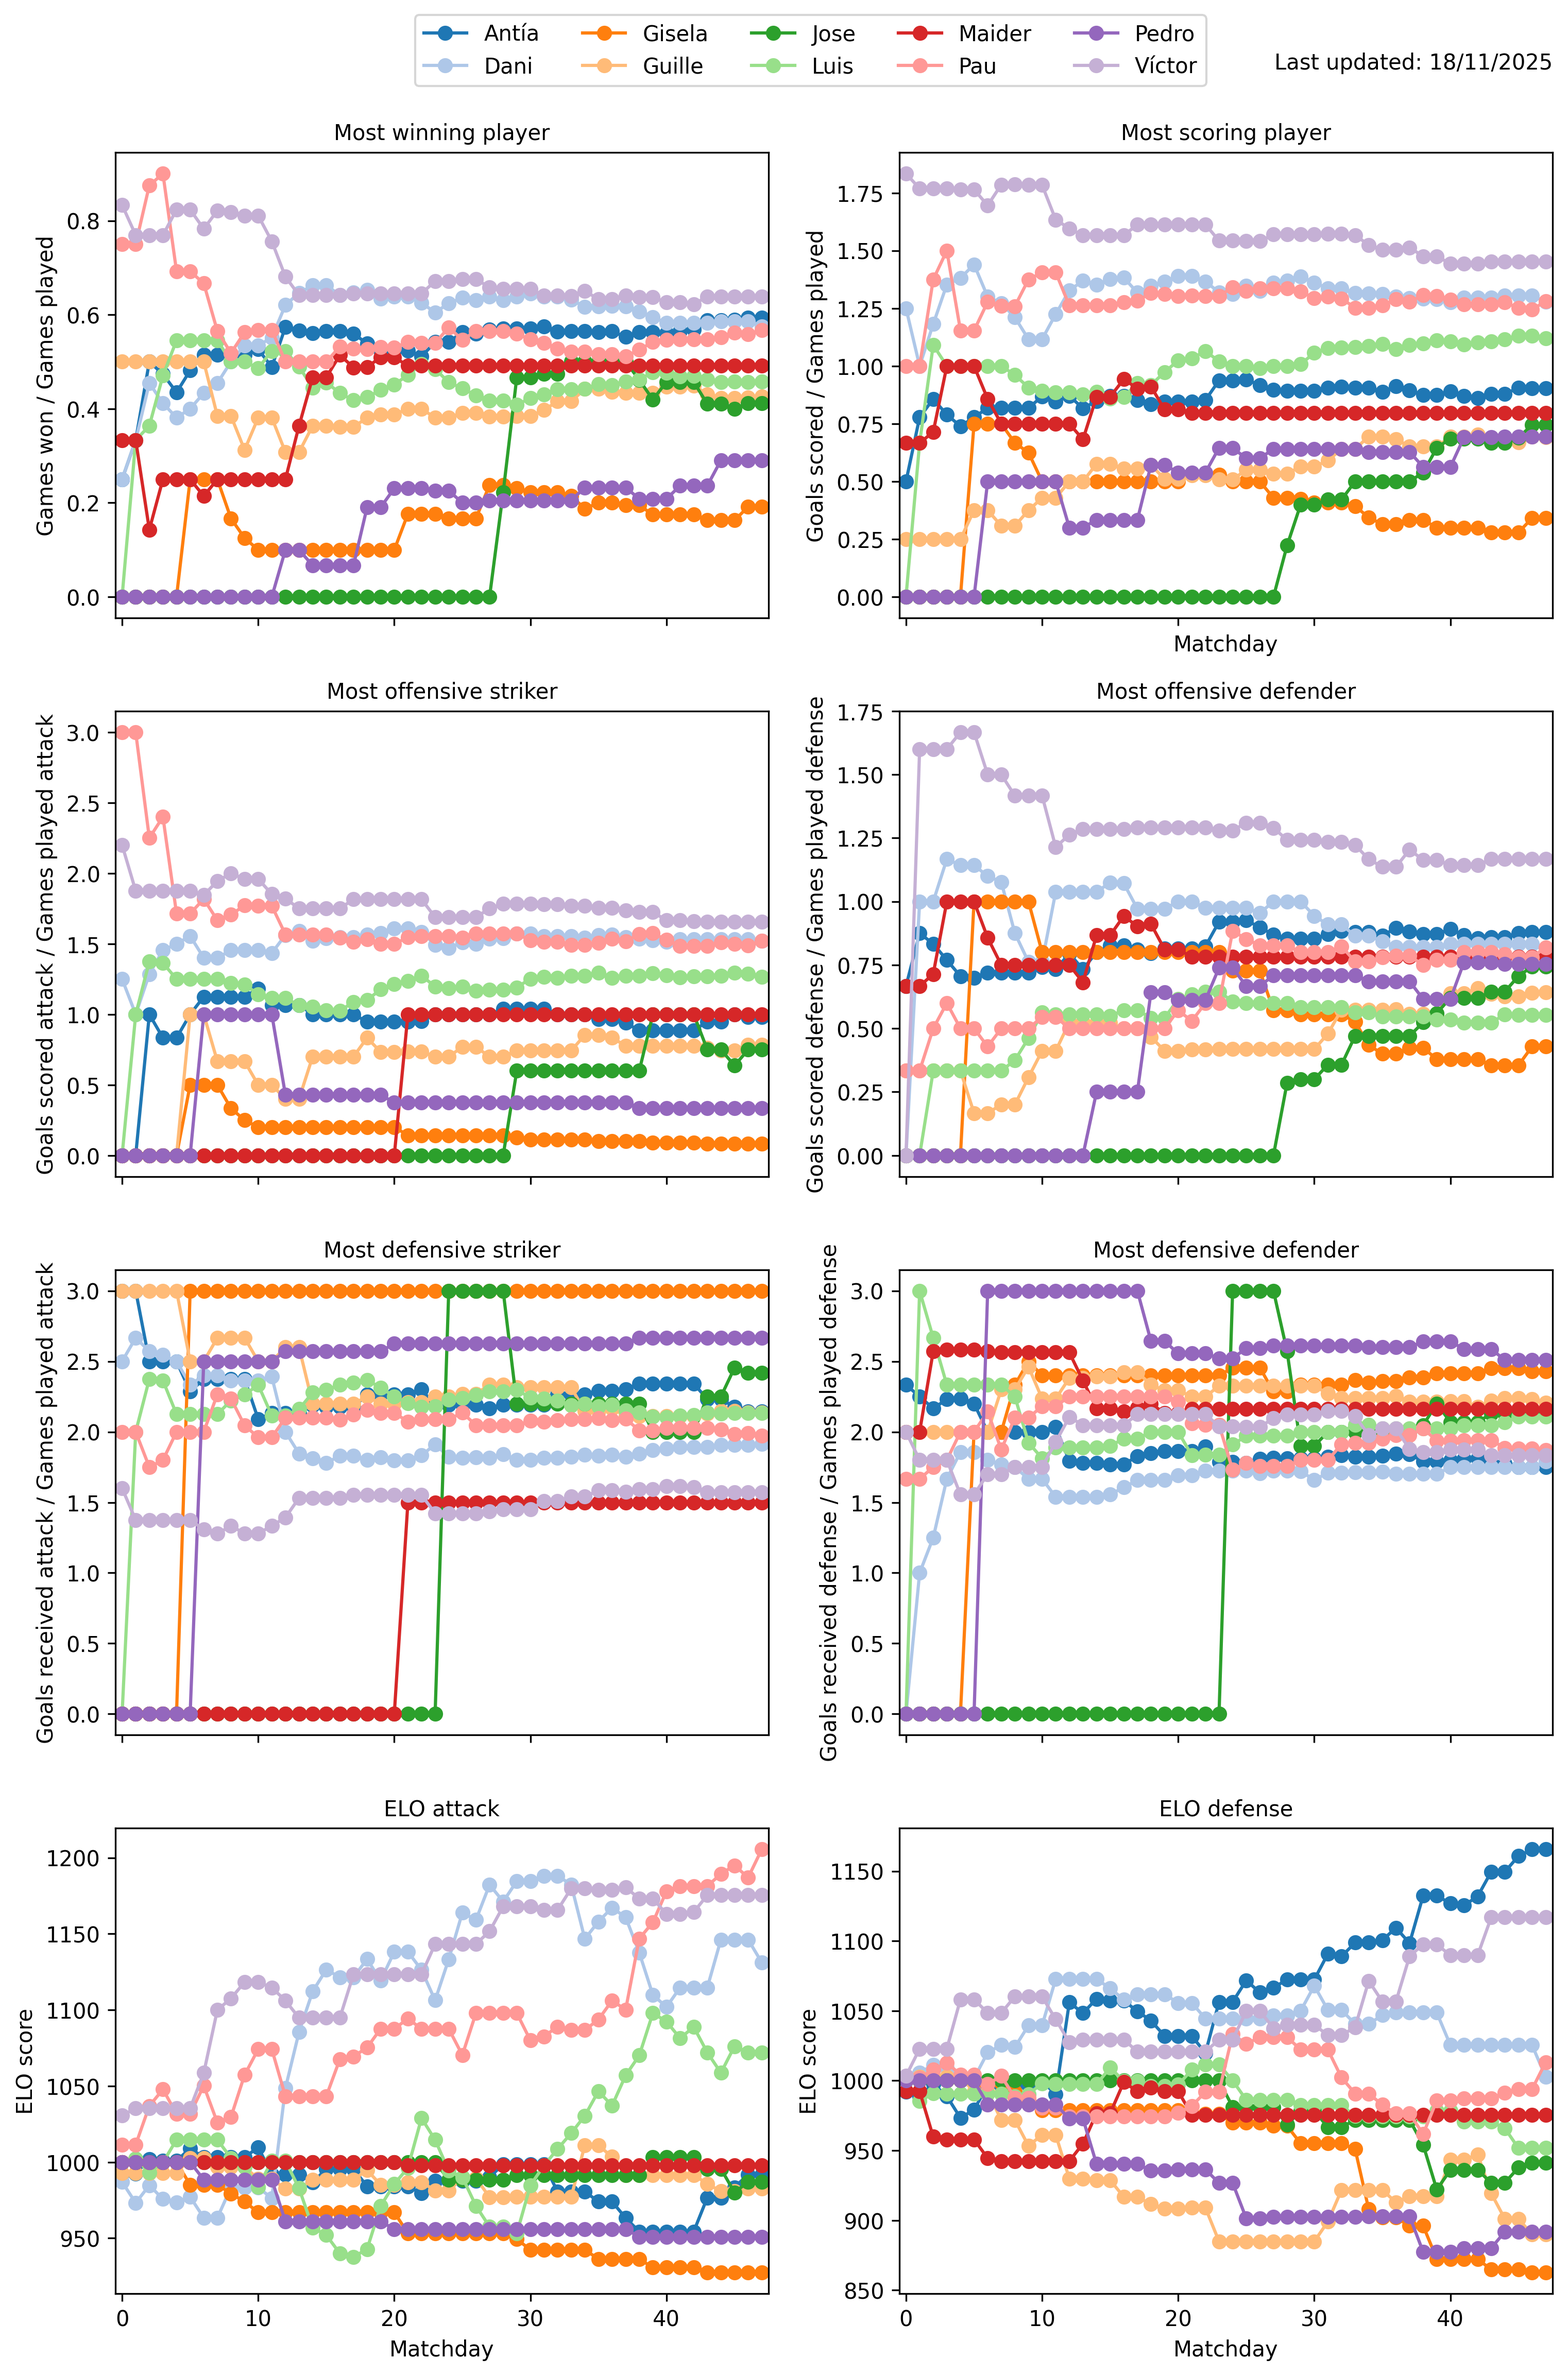
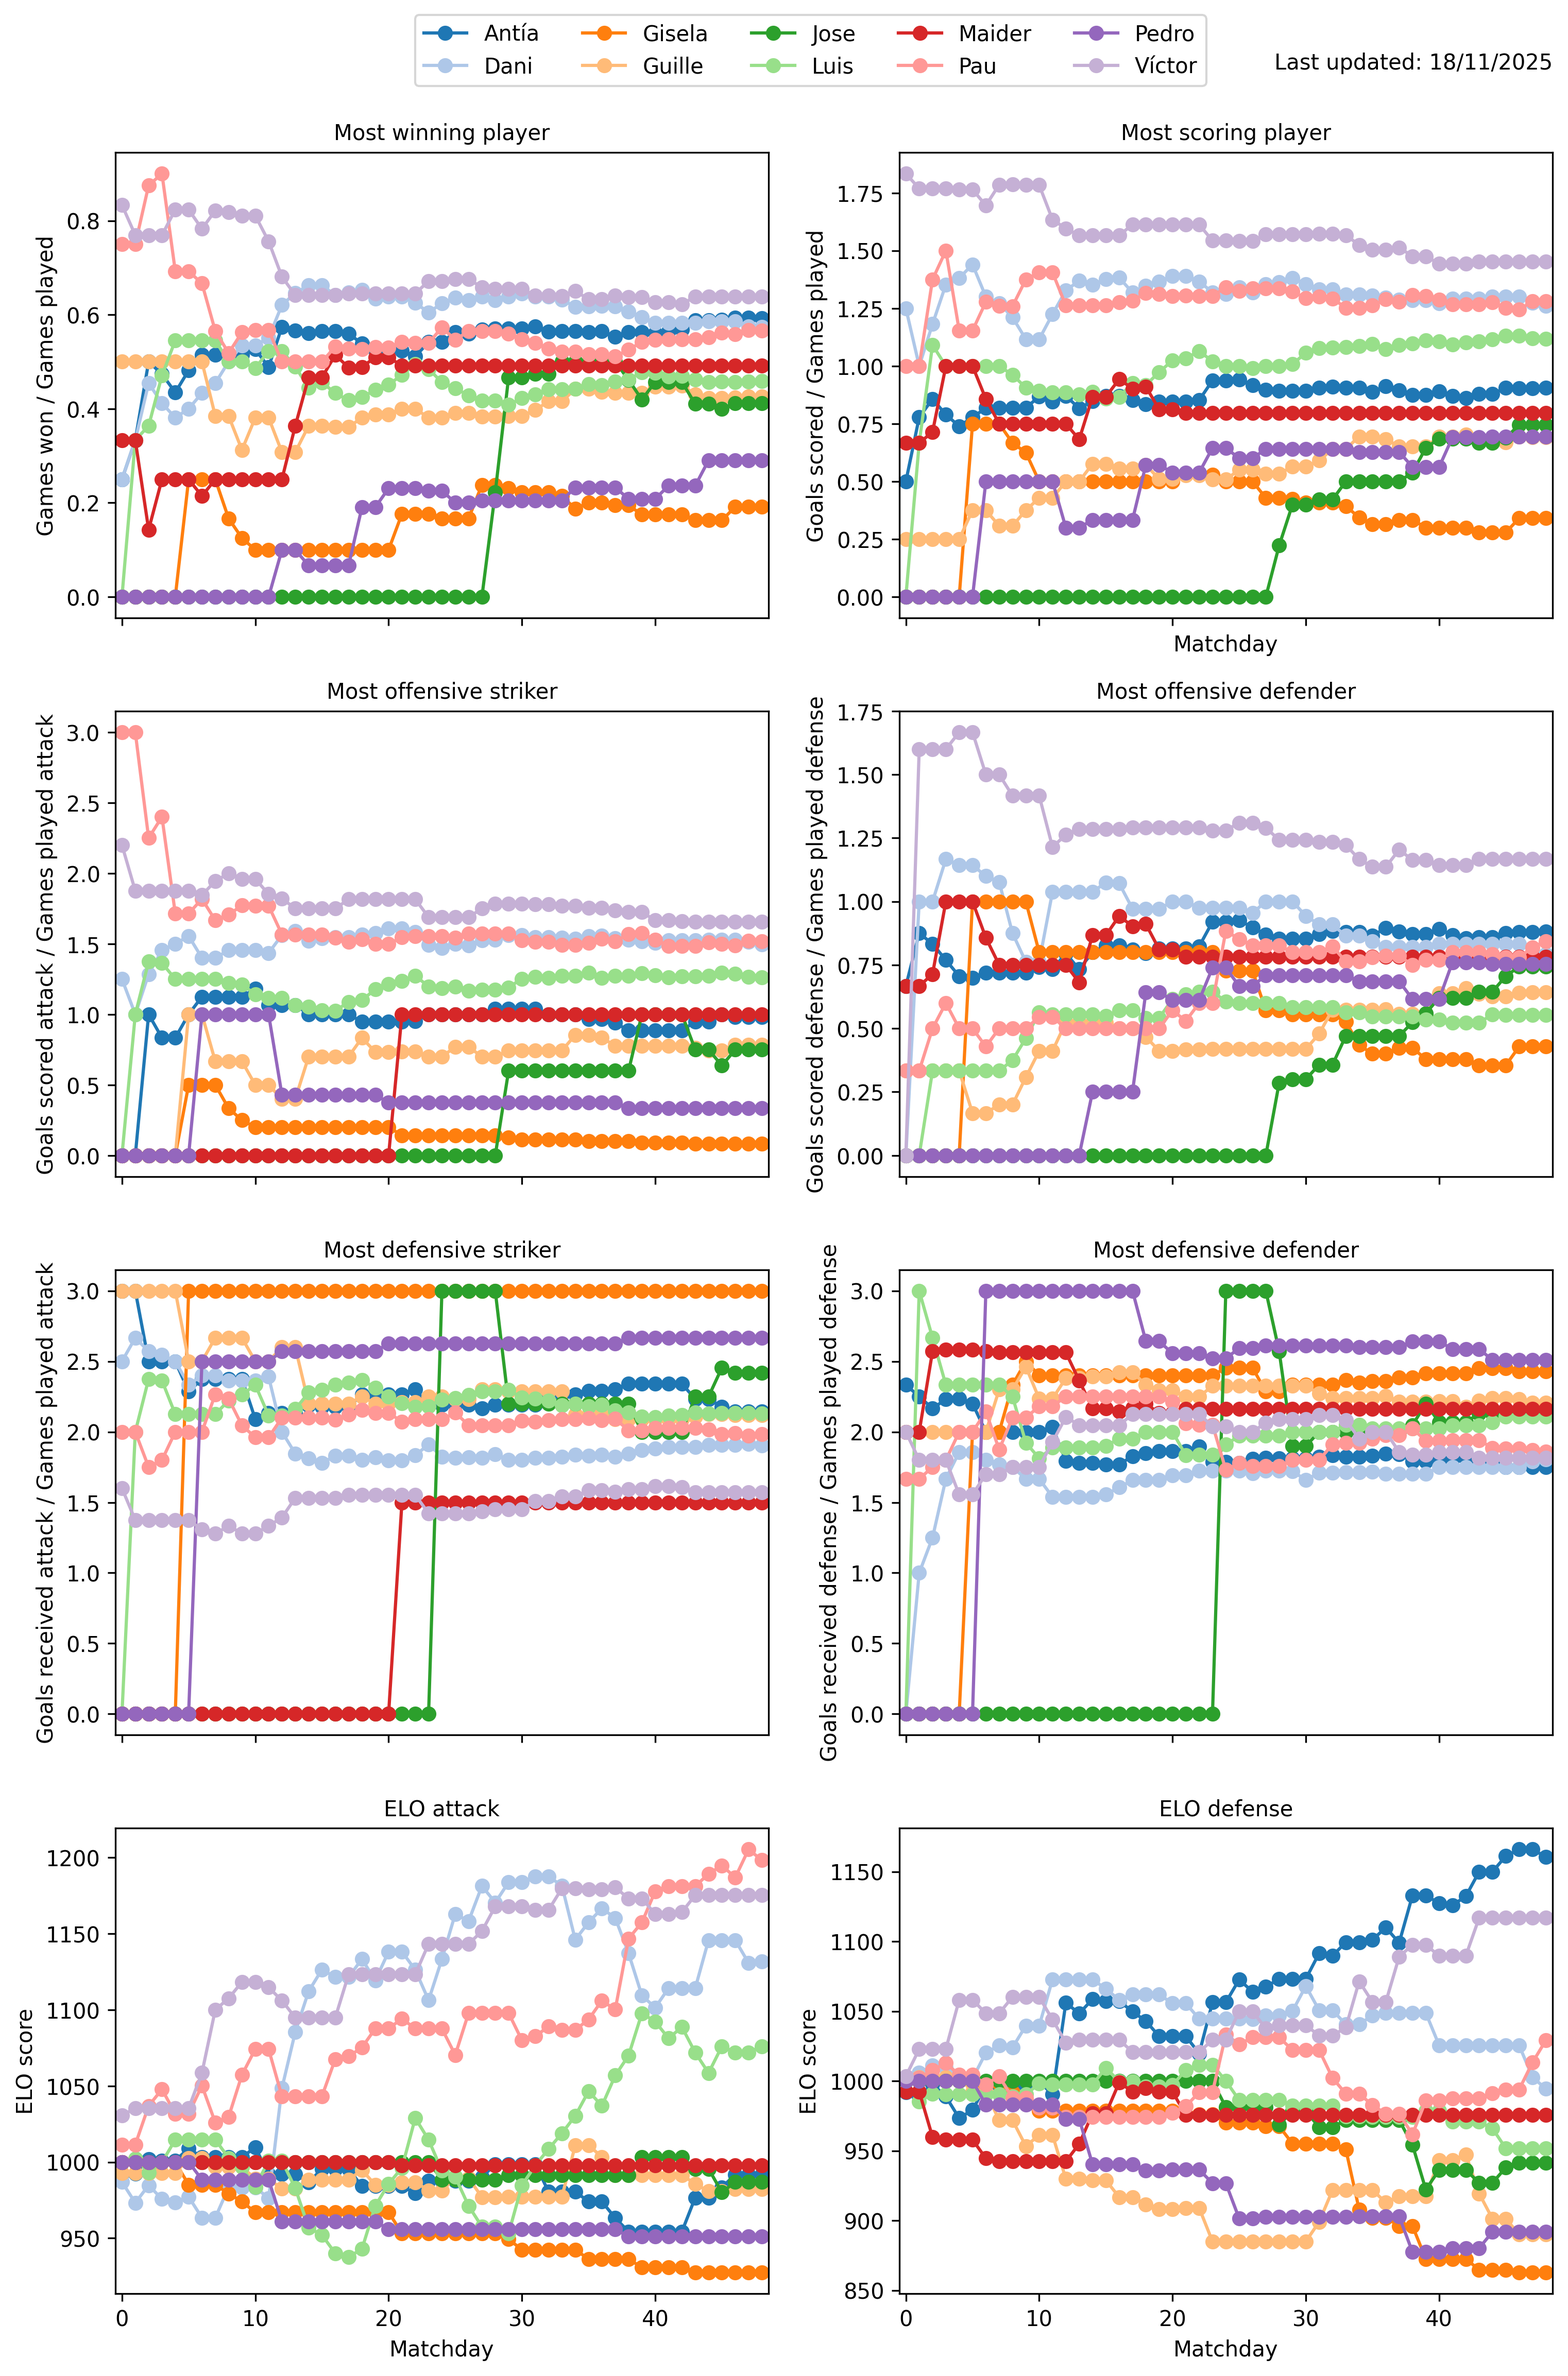
Updated to Matchday 48

diff --git a/results/winplayed_stats.html b/results/winplayed_stats.html
@@ -1,64 +1,64 @@
 <style type="text/css">
 </style>
-<table id="T_0a53e">
-  <caption>Games won / Games played (Matchday 47)</caption>
+<table id="T_c4ba8">
+  <caption>Games won / Games played (Matchday 48)</caption>
   <thead>
     <tr>
       <th class="blank level0" >&nbsp;</th>
-      <th id="T_0a53e_level0_col0" class="col_heading level0 col0" >0</th>
-      <th id="T_0a53e_level0_col1" class="col_heading level0 col1" >1</th>
+      <th id="T_c4ba8_level0_col0" class="col_heading level0 col0" >0</th>
+      <th id="T_c4ba8_level0_col1" class="col_heading level0 col1" >1</th>
     </tr>
   </thead>
   <tbody>
     <tr>
-      <th id="T_0a53e_level0_row0" class="row_heading level0 row0" >1</th>
-      <td id="T_0a53e_row0_col0" class="data row0 col0" >Víctor</td>
-      <td id="T_0a53e_row0_col1" class="data row0 col1" >0.64</td>
+      <th id="T_c4ba8_level0_row0" class="row_heading level0 row0" >1</th>
+      <td id="T_c4ba8_row0_col0" class="data row0 col0" >Víctor</td>
+      <td id="T_c4ba8_row0_col1" class="data row0 col1" >0.64</td>
     </tr>
     <tr>
-      <th id="T_0a53e_level0_row1" class="row_heading level0 row1" >2</th>
-      <td id="T_0a53e_row1_col0" class="data row1 col0" >Antía</td>
-      <td id="T_0a53e_row1_col1" class="data row1 col1" >0.59</td>
+      <th id="T_c4ba8_level0_row1" class="row_heading level0 row1" >2</th>
+      <td id="T_c4ba8_row1_col0" class="data row1 col0" >Antía</td>
+      <td id="T_c4ba8_row1_col1" class="data row1 col1" >0.59</td>
     </tr>
     <tr>
-      <th id="T_0a53e_level0_row2" class="row_heading level0 row2" >3</th>
-      <td id="T_0a53e_row2_col0" class="data row2 col0" >Dani</td>
-      <td id="T_0a53e_row2_col1" class="data row2 col1" >0.58</td>
+      <th id="T_c4ba8_level0_row2" class="row_heading level0 row2" >3</th>
+      <td id="T_c4ba8_row2_col0" class="data row2 col0" >Dani</td>
+      <td id="T_c4ba8_row2_col1" class="data row2 col1" >0.57</td>
     </tr>
     <tr>
-      <th id="T_0a53e_level0_row3" class="row_heading level0 row3" >4</th>
-      <td id="T_0a53e_row3_col0" class="data row3 col0" >Pau</td>
-      <td id="T_0a53e_row3_col1" class="data row3 col1" >0.57</td>
+      <th id="T_c4ba8_level0_row3" class="row_heading level0 row3" >4</th>
+      <td id="T_c4ba8_row3_col0" class="data row3 col0" >Pau</td>
+      <td id="T_c4ba8_row3_col1" class="data row3 col1" >0.57</td>
     </tr>
     <tr>
-      <th id="T_0a53e_level0_row4" class="row_heading level0 row4" >5</th>
-      <td id="T_0a53e_row4_col0" class="data row4 col0" >Maider</td>
-      <td id="T_0a53e_row4_col1" class="data row4 col1" >0.49</td>
+      <th id="T_c4ba8_level0_row4" class="row_heading level0 row4" >5</th>
+      <td id="T_c4ba8_row4_col0" class="data row4 col0" >Maider</td>
+      <td id="T_c4ba8_row4_col1" class="data row4 col1" >0.49</td>
     </tr>
     <tr>
-      <th id="T_0a53e_level0_row5" class="row_heading level0 row5" >6</th>
-      <td id="T_0a53e_row5_col0" class="data row5 col0" >Luis</td>
-      <td id="T_0a53e_row5_col1" class="data row5 col1" >0.46</td>
+      <th id="T_c4ba8_level0_row5" class="row_heading level0 row5" >6</th>
+      <td id="T_c4ba8_row5_col0" class="data row5 col0" >Luis</td>
+      <td id="T_c4ba8_row5_col1" class="data row5 col1" >0.46</td>
     </tr>
     <tr>
-      <th id="T_0a53e_level0_row6" class="row_heading level0 row6" >7</th>
-      <td id="T_0a53e_row6_col0" class="data row6 col0" >Guille</td>
-      <td id="T_0a53e_row6_col1" class="data row6 col1" >0.43</td>
+      <th id="T_c4ba8_level0_row6" class="row_heading level0 row6" >7</th>
+      <td id="T_c4ba8_row6_col0" class="data row6 col0" >Guille</td>
+      <td id="T_c4ba8_row6_col1" class="data row6 col1" >0.43</td>
     </tr>
     <tr>
-      <th id="T_0a53e_level0_row7" class="row_heading level0 row7" >8</th>
-      <td id="T_0a53e_row7_col0" class="data row7 col0" >Jose</td>
-      <td id="T_0a53e_row7_col1" class="data row7 col1" >0.41</td>
+      <th id="T_c4ba8_level0_row7" class="row_heading level0 row7" >8</th>
+      <td id="T_c4ba8_row7_col0" class="data row7 col0" >Jose</td>
+      <td id="T_c4ba8_row7_col1" class="data row7 col1" >0.41</td>
     </tr>
     <tr>
-      <th id="T_0a53e_level0_row8" class="row_heading level0 row8" >9</th>
-      <td id="T_0a53e_row8_col0" class="data row8 col0" >Pedro</td>
-      <td id="T_0a53e_row8_col1" class="data row8 col1" >0.29</td>
+      <th id="T_c4ba8_level0_row8" class="row_heading level0 row8" >9</th>
+      <td id="T_c4ba8_row8_col0" class="data row8 col0" >Pedro</td>
+      <td id="T_c4ba8_row8_col1" class="data row8 col1" >0.29</td>
     </tr>
     <tr>
-      <th id="T_0a53e_level0_row9" class="row_heading level0 row9" >10</th>
-      <td id="T_0a53e_row9_col0" class="data row9 col0" >Gisela</td>
-      <td id="T_0a53e_row9_col1" class="data row9 col1" >0.19</td>
+      <th id="T_c4ba8_level0_row9" class="row_heading level0 row9" >10</th>
+      <td id="T_c4ba8_row9_col0" class="data row9 col0" >Gisela</td>
+      <td id="T_c4ba8_row9_col1" class="data row9 col1" >0.19</td>
     </tr>
   </tbody>
 </table>
